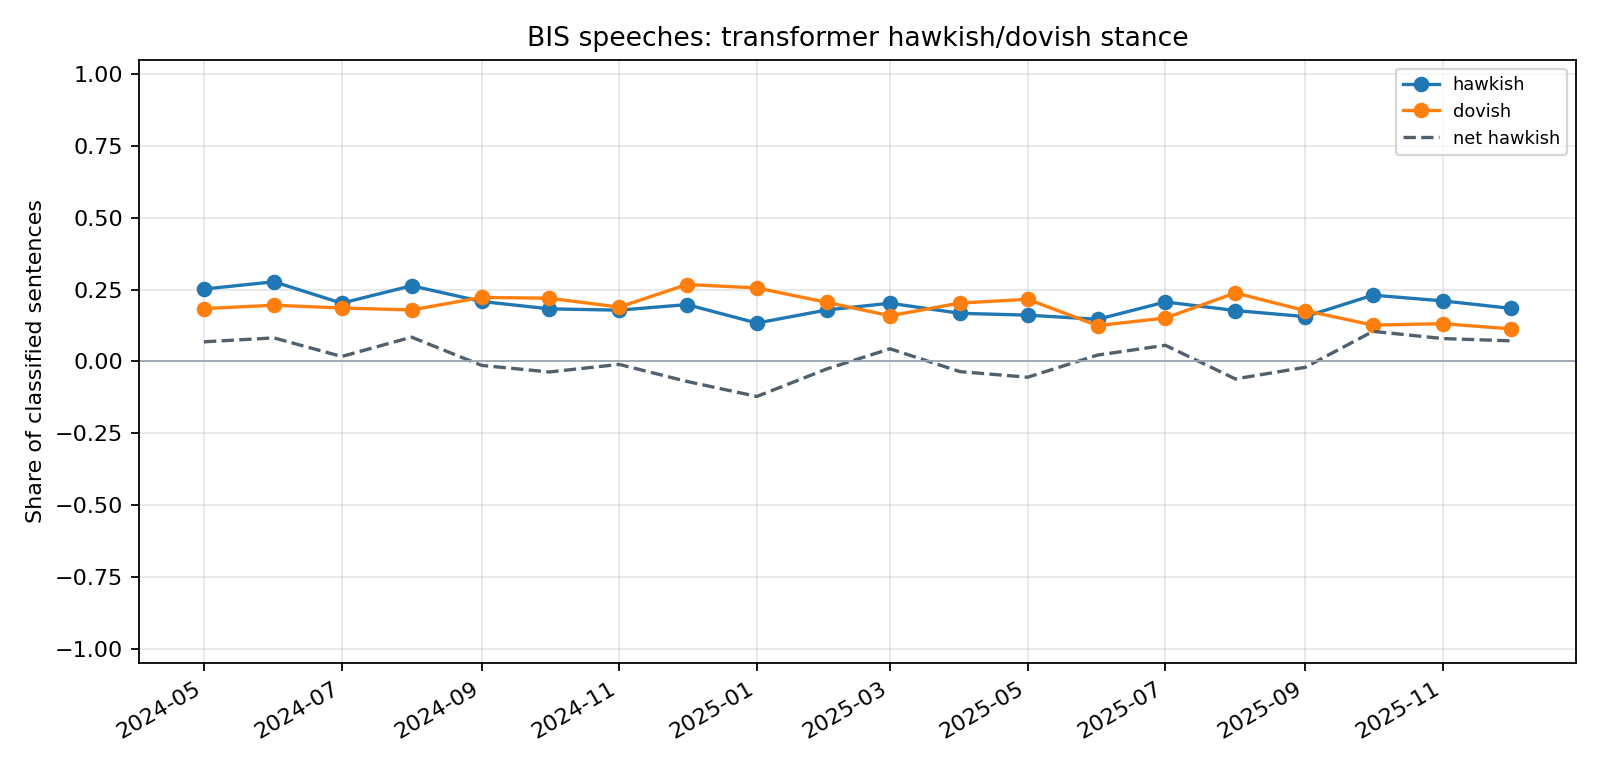
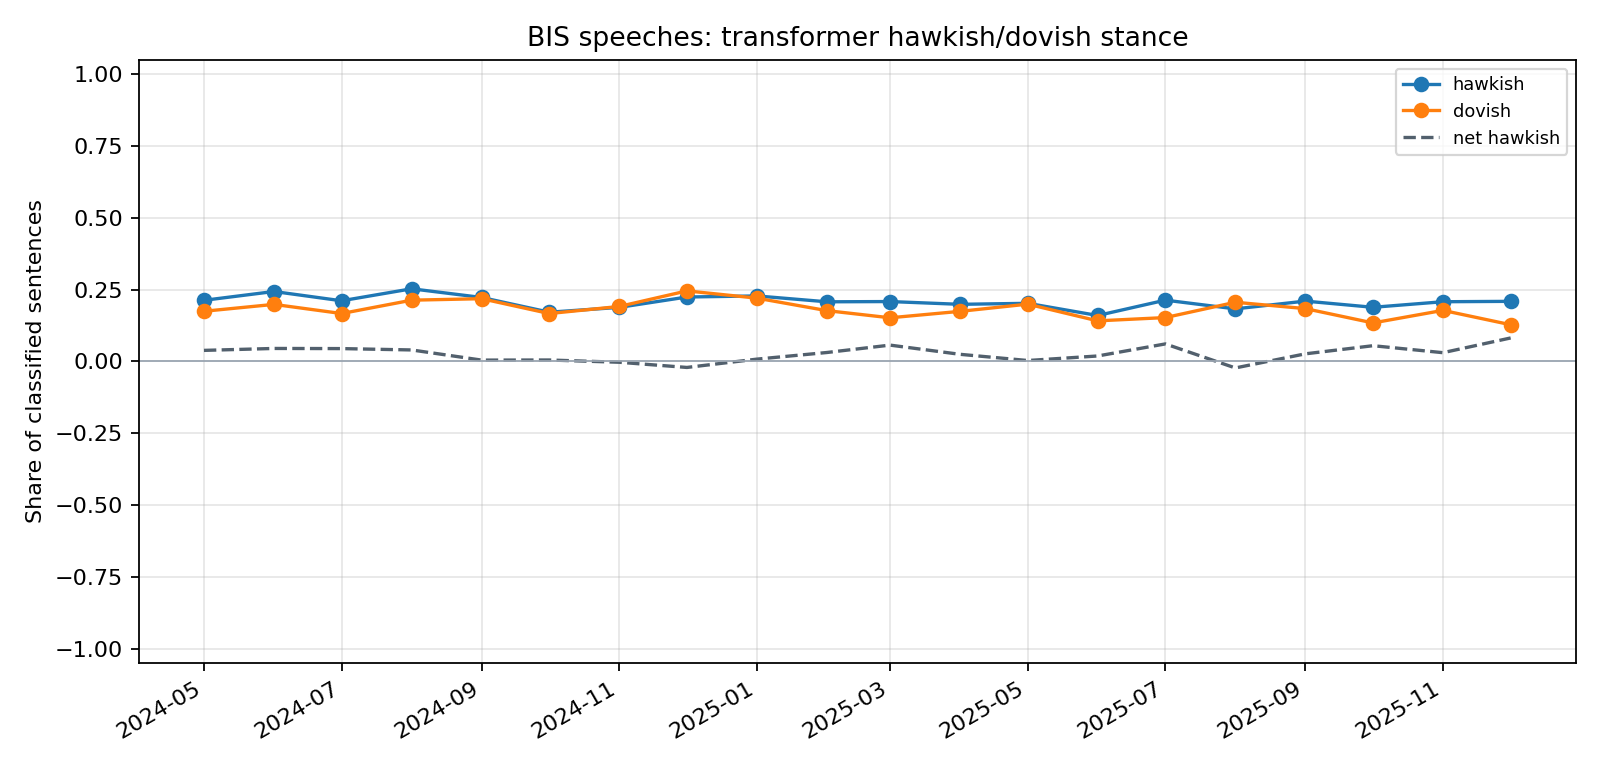
working on assessment layer with transformation engine

diff --git a/src/bis_prates/speech_transformer.py b/src/bis_prates/speech_transformer.py
@@ -60,7 +60,7 @@ class TransformerSpeechClassifier:
         self,
         model_name: str = DEFAULT_TRANSFORMER_MODEL,
         batch_size: int = 8,
-        max_sentences_per_speech: int = 8,
+        max_sentences_per_speech: Optional[int] = None,
         pipeline_factory: Optional[Callable[[str], object]] = None,
     ) -> None:
         self.model_name = model_name
@@ -119,7 +119,9 @@ class TransformerSpeechClassifier:
                 sentence
                 for sentence in sentences
                 if POLICY_SENTENCE_PATTERN.search(sentence)
-            ][: self.max_sentences_per_speech]
+            ]
+            if self.max_sentences_per_speech is not None:
+                policy_sentences = policy_sentences[: self.max_sentences_per_speech]
 
             for sentence in policy_sentences:
                 rows.append(